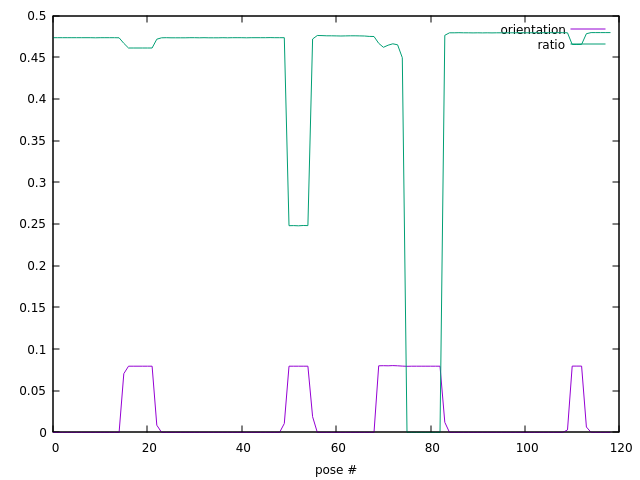
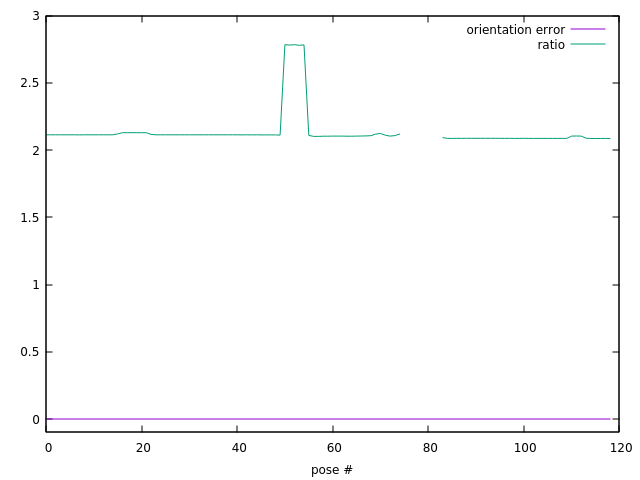
updating imgs and README

diff --git a/src/evaluate.cpp b/src/evaluate.cpp
@@ -104,15 +104,15 @@ int main(){
     std::vector<float> orientation_error;
     std::vector<float> ratio;
     for(size_t i=1;i<gt_data.size();i++){
-        Eigen::Isometry3f X_prev=traj_est_data[i-1];
-        Eigen::Isometry3f X_curr=traj_est_data[i];
-        Eigen::Isometry3f X_prev_gt=gt_data[i-1];
-        Eigen::Isometry3f X_curr_gt=gt_data[i];
-        auto X_rel=X_prev.inverse()*X_curr;
-        auto X_rel_gt=X_prev_gt.inverse()*X_curr_gt;
-        Eigen::Matrix3f error=Eigen::Matrix3f::Identity()-X_rel.linear().transpose()*X_rel_gt.linear();
+        const Eigen::Isometry3f X_prev=traj_est_data[i-1];
+        const Eigen::Isometry3f X_curr=traj_est_data[i];
+        const Eigen::Isometry3f X_prev_gt=gt_data[i-1];
+        const Eigen::Isometry3f X_curr_gt=gt_data[i];
+        const auto X_rel=X_prev.inverse()*X_curr;
+        const auto X_rel_gt=X_prev_gt.inverse()*X_curr_gt;
+        const Eigen::Matrix3f error=Eigen::Matrix3f::Identity()-X_rel.linear().transpose()*X_rel_gt.linear();
         orientation_error.push_back(error.trace());
-        ratio.push_back(X_rel_gt.translation().norm()/X_rel.translation().norm());
+        ratio.push_back(X_rel.translation().norm()/X_rel_gt.translation().norm());
     }
     std::ofstream output_file("out_performance.txt");
     for(size_t i=1;i<ratio.size();i++)
@@ -121,7 +121,7 @@ int main(){
     output_file.close();
     const Vector3fVector map_est=read<3>("map.txt");
     Vector3fVector map_corrected;
-    const float median_ratio=median(ratio);
+    const float median_ratio=1./median(ratio);
     std::cout << "ratio used for map correction: " << median_ratio << std::endl;
     for(const auto& p:map_est)
         map_corrected.push_back(p*median_ratio);

diff --git a/include/utils.h b/include/utils.h
@@ -71,7 +71,7 @@ Eigen::Matrix<Scalar_,3,3> Rotation(const Eigen::Matrix<Scalar_,3,1>& angles) {
 //! @param v: 6dim vector
 //! @returns the computed isometry
 inline Eigen::Isometry3f v2tEuler(const Vector6f& v){
-  Eigen::Isometry3f T;
+  Eigen::Isometry3f T=Eigen::Isometry3f::Identity();
   T.linear()=Rotation(Eigen::Vector3f(v.tail<3>()));
   T.translation()=v.head<3>();
   return T;

diff --git a/README.md b/README.md
@@ -54,7 +54,7 @@ gnuplot>splot "trajectory_gt.txt" u 1:2:3 w p,"trajectory_est_complete.txt" u 1:
 ```
 <p align="center">
 <img src="imgs/trajectories_SE3.png" width="550" height="412">
-<\p>
+</p>
 
 To show the estimated trajectory, together with the estimated map, the true world points and the correspondences between them, write in the gnuplot shell
 ```
@@ -65,6 +65,8 @@ splot "world_pruned.txt" u 1:2:3 w p ps 0.7 title "true","map_corrected.txt" u 1
 <img src="imgs/points_SE3.png">
 </p>
 
+The computed RMSE between the true world points and the estimated ones (corrected by the ratio) is $0.184143$.
+
 To have a graph of the orientation error and the ratio, write in the gnuplot shell
 ```
 plot "out_performance.txt" u 1 w l title "orientation","out_performance.txt" u 2 w l title "ratio"
@@ -72,3 +74,5 @@ plot "out_performance.txt" u 1 w l title "orientation","out_performance.txt" u 2
 <p align="center">
 <img src="imgs/errors_SE3.png" width="500" height="375">
 </p>
+
+The orientation error is of the order of $10^{-6}$.
